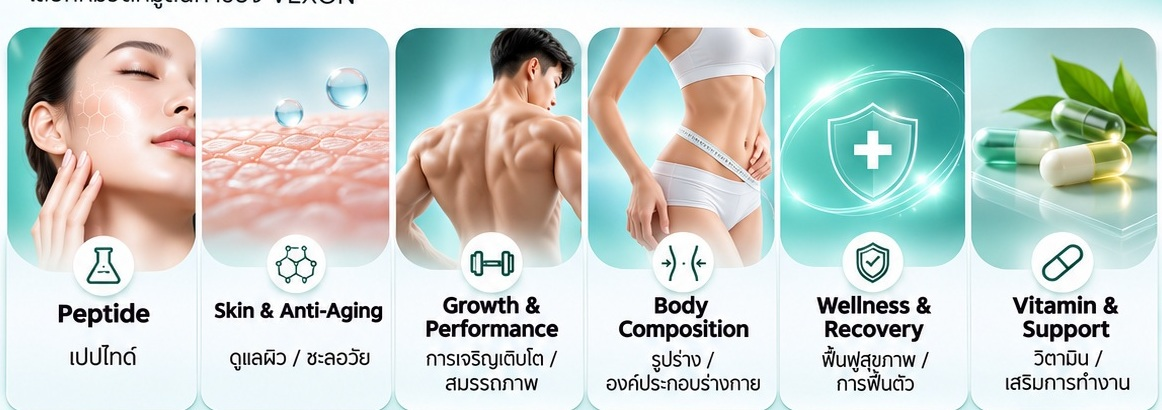
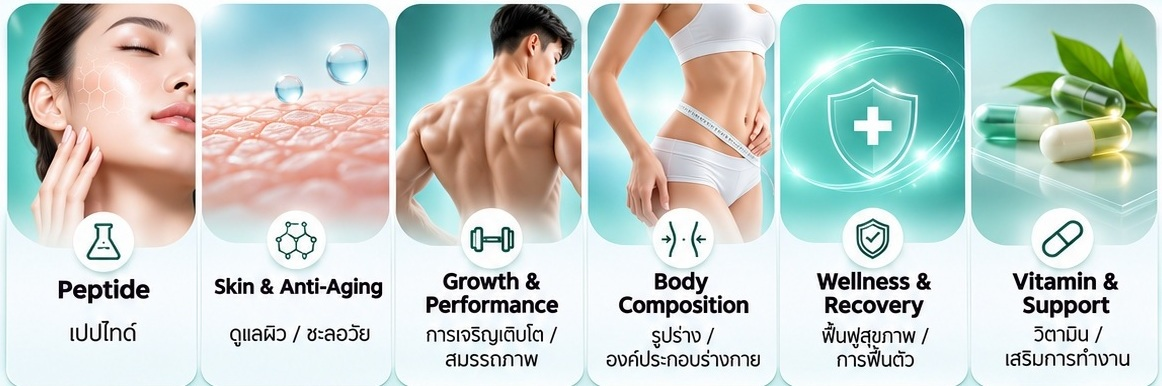
Add files via upload

diff --git a/index.html b/index.html
@@ -103,14 +103,16 @@ footer{padding:24px;text-align:center;background:#075a57;color:#e9f7f5;font-size
 
   <section class="category-strip" aria-label="เลือกหมวดหมู่สินค้า VEXON">
     <img src="assets/vexon-category-strip.jpg" alt="หมวดหมู่สินค้า VEXON: Peptide, Skin & Anti-Aging, Growth & Performance, Body Composition, Wellness & Recovery, Vitamin & Support">
-    <a href="products.html#peptide" aria-label="Peptide"></a>
-    <a href="products.html#skin" aria-label="Skin and Anti-Aging"></a>
-    <a href="products.html#growth" aria-label="Growth and Performance"></a>
-    <a href="products.html#body" aria-label="Body Composition"></a>
-    <a href="products.html#wellness" aria-label="Wellness and Recovery"></a>
-    <a href="products.html#vitamin" aria-label="Vitamin and Support"></a>
+    <a href="#peptide" aria-label="Peptide"></a>
+    <a href="#skin" aria-label="Skin and Anti-Aging"></a>
+    <a href="#growth" aria-label="Growth and Performance"></a>
+    <a href="#body" aria-label="Body Composition"></a>
+    <a href="#wellness" aria-label="Wellness and Recovery"></a>
+    <a href="#vitamin" aria-label="Vitamin and Support"></a>
   </section>
   <style>
+    html{scroll-behavior:smooth}
+    .group[id]{scroll-margin-top:24px}
     .category-strip{position:relative;width:100%;line-height:0;background:#f5fbfa}
     .category-strip img{display:block;width:100%;height:auto}
     .category-strip a{position:absolute;top:0;height:100%;width:16.6667%;display:block;background:transparent}
